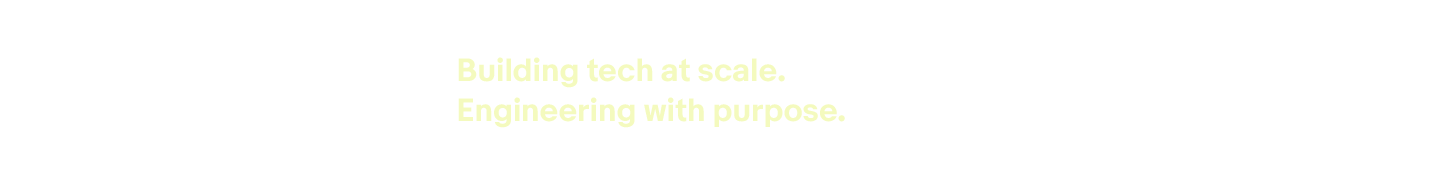
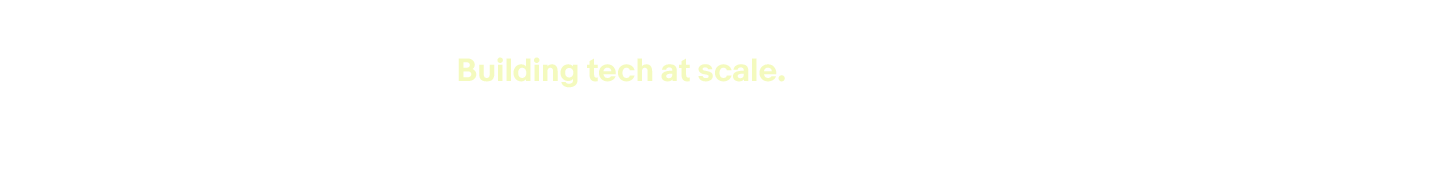
heavily update building 728x90

Changed region(s): [[0.3091, 0.5278, 0.5872, 0.6944]]

diff --git a/Building_Tech_V1/Ebay_Building_Tech_V1_728x90_EN/assets/js/custom.js b/Building_Tech_V1/Ebay_Building_Tech_V1_728x90_EN/assets/js/custom.js
@@ -19,13 +19,16 @@ function createTimeline(){
         }
     });
 
+    //Create a custom bounce ease:
+    // CustomBounce.create("myBounce", {strength:0.6, squash:3, squashID:"myBounce-squash"});
+
     /* ***** JS Target Variables ***** */
     var contentBanner = document.querySelectorAll(".content-banner");
     var contentBg = document.querySelectorAll(".content-bg");
     var fullBlock1 = document.querySelectorAll(".content-animate-full-1 .block-1");
-    var fullBlock2 = document.querySelectorAll(".content-animate-full-1 .block-2");
-    var fullBlock3 = document.querySelectorAll(".content-animate-full-1 .block-3");
-    var fullBlock4 = document.querySelectorAll(".content-animate-full-1 .block-4");
+    // var fullBlock2 = document.querySelectorAll(".content-animate-full-1 .block-2");
+    // var fullBlock3 = document.querySelectorAll(".content-animate-full-1 .block-3");
+    // var fullBlock4 = document.querySelectorAll(".content-animate-full-1 .block-4");
     
     var frame1 = document.querySelectorAll(".content-frame-1");
     var frame1_contentText = document.querySelectorAll(".content-frame-1 .content-text");
@@ -33,12 +36,17 @@ function createTimeline(){
     var frame1_cta = document.querySelectorAll(".content-frame-1 .cta");
     var frame1_ctaArrow = document.querySelectorAll(".content-frame-1 .cta-arrow");
     var frame1_blockText = document.querySelectorAll(".content-frame-1 .block-text");
+    var frame1_blockCta = document.querySelectorAll(".content-frame-1 .block-cta");
+    var frame1_block2 = document.querySelectorAll(".content-frame-1 .block-2");
+    var frame1_block3 = document.querySelectorAll(".content-frame-1 .block-3");
+    var frame1_block4 = document.querySelectorAll(".content-frame-1 .block-4");
     
-    tl.set(contentBg, {y:-30});
-    tl.set(frame1_contentText, {scale:1.3, x:40, y:0});
-    tl.set([frame1_text], {autoAlpha:0, y:-10});
+    tl.set(contentBg, {x:30});
+    tl.set(frame1_contentText, {scale:1, x:40, y:0});
+    tl.set([frame1_blockCta, frame1_block2, frame1_block3, frame1_block4, frame1_cta], {x:100, y:0});
+    tl.set([frame1_text], {autoAlpha:0, x:60});
     tl.set(frame1_blockText, {scaleX:1.74, scaleY:1.51});
-    tl.set([frame1_cta, frame1_ctaArrow], {autoAlpha:0, x:-10});
+    tl.set(frame1_ctaArrow, {scaleX:0.9, autoAlpha:0, x:0});
 
     /* ***** Base Gsap Timeline ***** */
     tl.to(contentBanner, {duration:0.6, autoAlpha:1, ease: "power2.out"});
@@ -48,33 +56,34 @@ function createTimeline(){
 
         /* ***** Custom Gsap Timeline ***** */
         tl.addLabel("frame1");
-        tl.to(fullBlock1, {duration:0.8, y:"100%", ease: "power4.out"}, "frame1");
-        tl.to(fullBlock2, {duration:0.8, y:"100%", ease: "power4.out"}, "frame1+=0.1");
-        tl.to(fullBlock3, {duration:0.8, y:"100%", ease: "power4.out"}, "frame1+=0.4");
-        tl.to(fullBlock4, {duration:1, y:"100%", ease: "power4.out"}, "frame1+=0.4");
-        
-        tl.to(contentBg, {duration:0.8, y:0, ease: "power3.out"}, "frame1+=0.4");
-        
-        tl.to(frame1_text, {duration:1, stagger:1, autoAlpha:1, y:0, ease: "power3.out"}, "frame1+=0.4");
-        
+        tl.to(fullBlock1, {duration:0.8, x:"-100%", ease: "power4.out"}, "frame1");
+        tl.to(contentBg, {duration:1, x:0, ease: "power3.out"}, "frame1");        
+        tl.to(frame1_text, {duration:1, stagger:1, autoAlpha:1, x:55, ease: "power3.out"}, "frame1");
+        tl.to(frame1_text, {duration:1, autoAlpha:1, x:0, ease: "back.out"}, "frame1+=2");
+        tl.to(frame1_contentText, {duration:1, scale:1, x:0, y:0, ease: "back.out"}, "frame1+=2");
+        tl.to(frame1_blockText, {duration:1, scale:1, ease: "back.out"}, "frame1+=2");
+        tl.to([frame1_blockCta, frame1_block2, frame1_block3, frame1_block4, frame1_cta], {duration:0.8, autoAlpha:1, x:0, ease: "back.out"}, "frame1+=2");
 
-        tl.addLabel("frame2", "+=1.2");
-        tl.to(frame1_contentText, {duration:1, scale:1, x:0, y:0, ease: "power3.out"}, "frame2");
-        tl.to(frame1_blockText, {duration:0.8, scale:1, ease: "power3.out"}, "frame2");
-
-        tl.to([frame1_cta, frame1_ctaArrow], {duration:0.8, stagger:0.1, autoAlpha:1, x:0, ease: "power3.out"}, "frame2+=0.4");
+        //do the bounce by affecting the "y" property.
+        // TweenMax.from([frame1_blockCta, frame1_block2, frame1_block3, frame1_block4], 2, {x:100, ease:"myBounce"});
+        // //and do the squash/stretch at the same time:
+        // TweenMax.to([frame1_blockCta, frame1_block2, frame1_block3, frame1_block4], 2, {scaleX:140, scaleY:60, ease:"myBounce-squash", transformOrigin:"center bottom"});
+        
+        // tl.to(frame1_ctaArrow, {duration:0.2, autoAlpha:1, x:0, ease: "power3.out"}, "frame1+=2.5");
+        // tl.to(frame1_ctaArrow, {duration:0.2, scaleX:0.7, autoAlpha:0, x:10, ease: "power4.out"}, "frame1+=1");
+        tl.to(frame1_ctaArrow, {duration:0.4, scaleX:1, autoAlpha:1, x:0, ease: "power4.out"}, "frame1+=2.7");
 
         
         tl.addLabel("frame3", "+=2.2");
-        tl.to(frame1_ctaArrow, {duration:0.2, scaleX:0.2, autoAlpha:0, x:-5, ease: "power4.out"}, "frame3");
+        tl.to(frame1_ctaArrow, {duration:0.2, scaleX:0.7, autoAlpha:0, x:10, ease: "power4.out"}, "frame3");
         tl.to(frame1_ctaArrow, {duration:0.5, scaleX:1, autoAlpha:1, x:0, ease: "power4.out"}, "frame3+=0.4");
         
         tl.addLabel("frame4", "+=2.2");
-        tl.to(frame1_ctaArrow, {duration:0.2, scaleX:0.2, autoAlpha:0, x:-5, ease: "power4.out"}, "frame4");
+        tl.to(frame1_ctaArrow, {duration:0.2, scaleX:0.7, autoAlpha:0, x:10, ease: "power4.out"}, "frame4");
         tl.to(frame1_ctaArrow, {duration:0.5, scaleX:1, autoAlpha:1, x:0, ease: "power4.out"}, "frame4+=0.4");
         
         tl.addLabel("frame5", "+=2.2");
-        tl.to(frame1_ctaArrow, {duration:0.2, scaleX:0.2, autoAlpha:0, x:-5, ease: "power4.out"}, "frame5");
+        tl.to(frame1_ctaArrow, {duration:0.2, scaleX:0.7, autoAlpha:0, x:10, ease: "power4.out"}, "frame5");
         tl.to(frame1_ctaArrow, {duration:0.5, scaleX:1, autoAlpha:1, x:0, ease: "power4.out"}, "frame5+=0.4");
         
     /* ***** End Coding Here ***** */

diff --git a/Building_Tech_V1/Ebay_Building_Tech_V1_728x90_EN/assets/css/style.css b/Building_Tech_V1/Ebay_Building_Tech_V1_728x90_EN/assets/css/style.css
@@ -157,7 +157,7 @@ img{
 	position:absolute;
 	left:0;
 	top:0;
-	width:100%;
+	width:50%;
 	height:100%;
 	z-index:99;
 }
@@ -220,10 +220,11 @@ img{
 	top:0;
 	width:100%;
 	height:100%;
-	z-index:999;
+	z-index:100;
 }
 
 .content-frame .text{
+	z-index:1;
 	position:absolute;
 	left:0;
 	top:0;
@@ -238,7 +239,7 @@ img{
 	top:0;
 	width:100%;
 	height:100%;
-	z-index:999;
+	z-index:20;
 }
 
 .content-frame .content-cta img{
@@ -250,6 +251,7 @@ img{
 }
 
 .content-frame .block-cta{
+	z-index:1;
 	bottom:0;
 	left: 454px;
     width: 135px;
@@ -258,6 +260,7 @@ img{
 }
 
 .content-frame .block-logo{
+	z-index: 100;
 	left:auto;
 	right:0;
 	bottom:0;
@@ -286,7 +289,7 @@ img{
 	bottom: 45px;
     left: 597px;
     height: 45px;
-    width: 42px;
+    width: 90px;
     background: var(--color-4);
 }
 
@@ -294,7 +297,7 @@ img{
 	bottom: 0;
     left: 597px;
     height: 45px;
-    width: 42px;
+    width: 90px;
     background: var(--color-5);
 }
 

diff --git a/Building_Tech_V1/Ebay_Building_Tech_V1_728x90_EN/index.html b/Building_Tech_V1/Ebay_Building_Tech_V1_728x90_EN/index.html
@@ -47,15 +47,12 @@
 
 			<div class="content-animate-full content-animate-full-1">
 				<div class="block block-1"></div>
-				<div class="block block-2"></div>
-				<div class="block block-3"></div>
-				<div class="block block-4"></div>
 			</div>
 
 			<div class="content-frame content-frame-1">
 				<div class="content-text">
 					<img class="text text-1" src="assets/img/text-1.png">
-					<!-- <img class="text text-2" src="assets/img/text-2.png"> -->
+					<img class="text text-2" src="assets/img/text-2.png">
 				</div>
 				<div class="content-cta">
 					<img class="cta" src="assets/img/cta.png">

diff --git a/Building_Tech_V1/Ebay_Building_Tech_V1_500x500_EN/assets/js/custom.js b/Building_Tech_V1/Ebay_Building_Tech_V1_500x500_EN/assets/js/custom.js
@@ -34,7 +34,7 @@ function createTimeline(){
     var frame1_blockText = document.querySelectorAll(".content-frame-1 .block-text");
     
     tl.set(contentBg, {y:-30});
-    tl.set(frame1_contentText, {scale:1.15, x:11, y:12});
+    tl.set(frame1_contentText, {scale:1.1, x:2, y:12});
     tl.set([frame1_text], {autoAlpha:0, y:-10});
     tl.set(frame1_blockText, {scaleX:1, scaleY:1.5});
     tl.set([frame1_cta, frame1_ctaArrow], {autoAlpha:0, x:-20});
